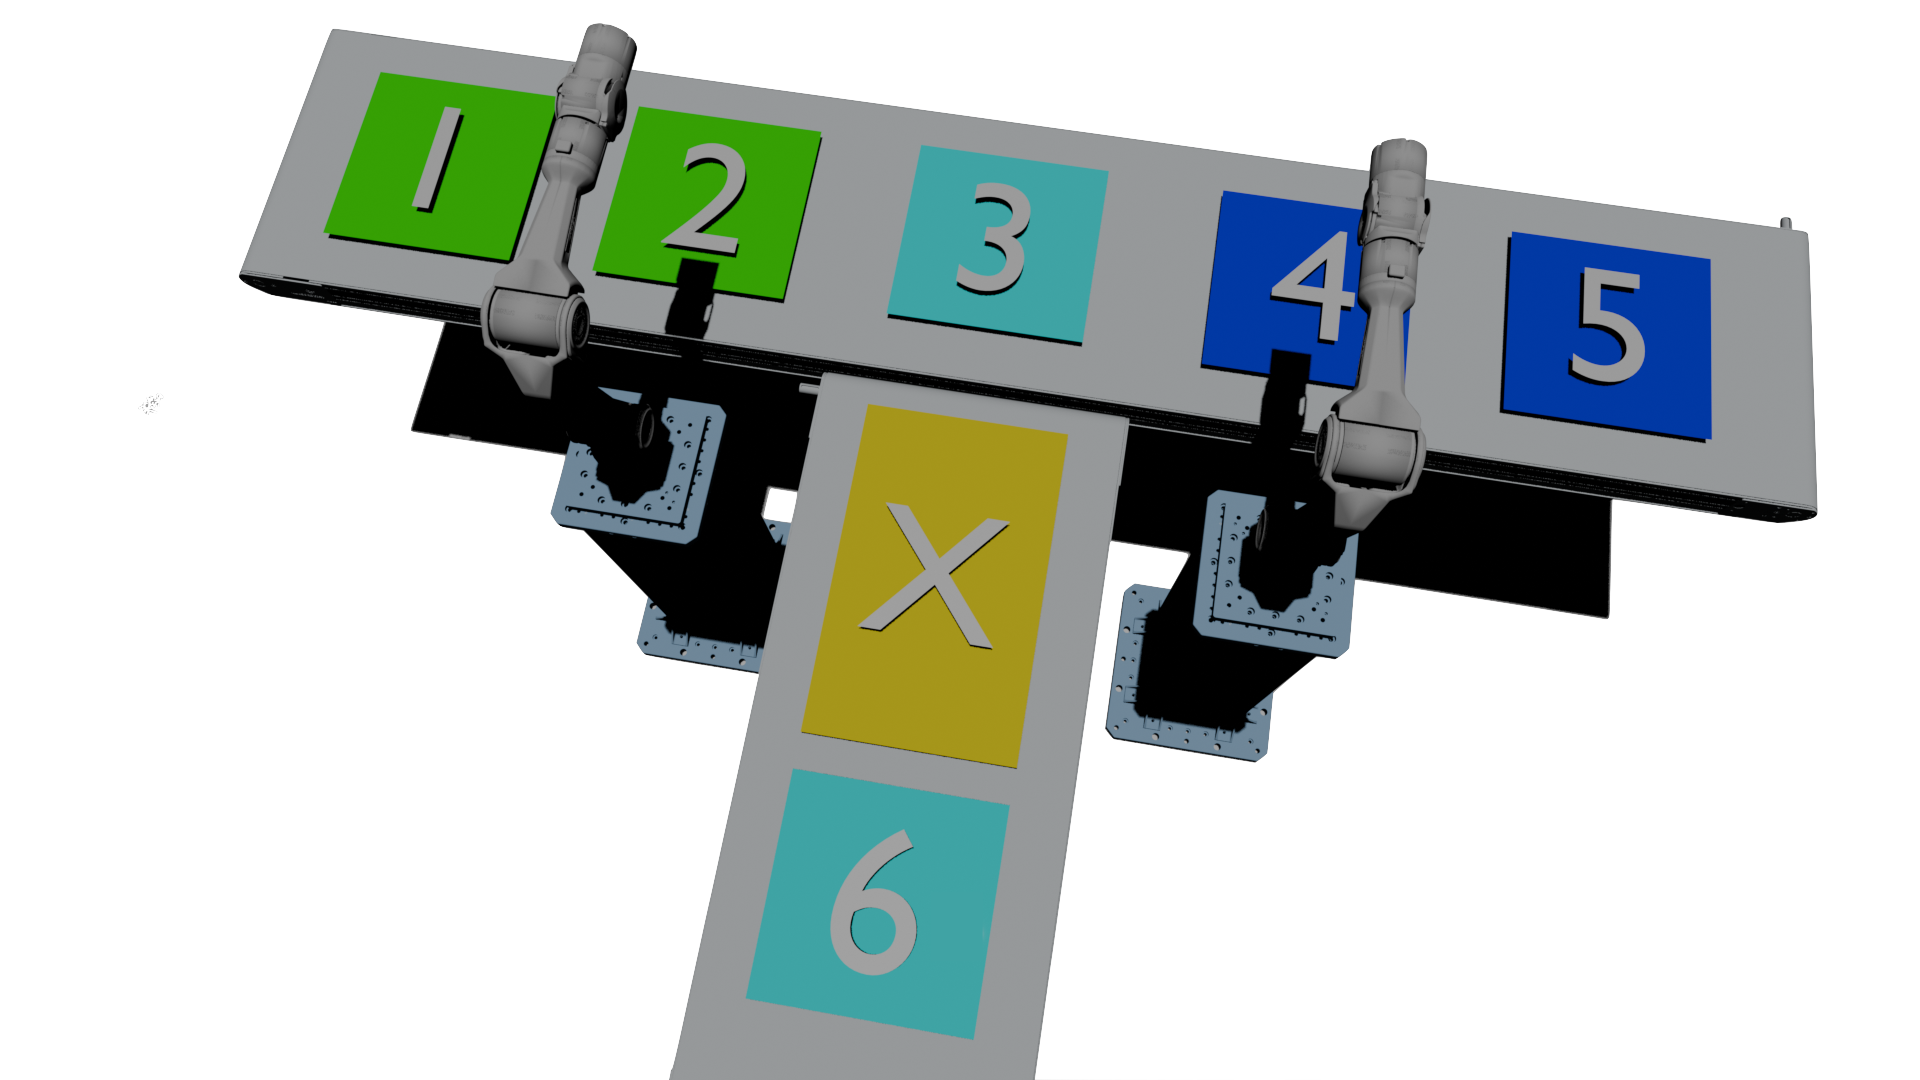
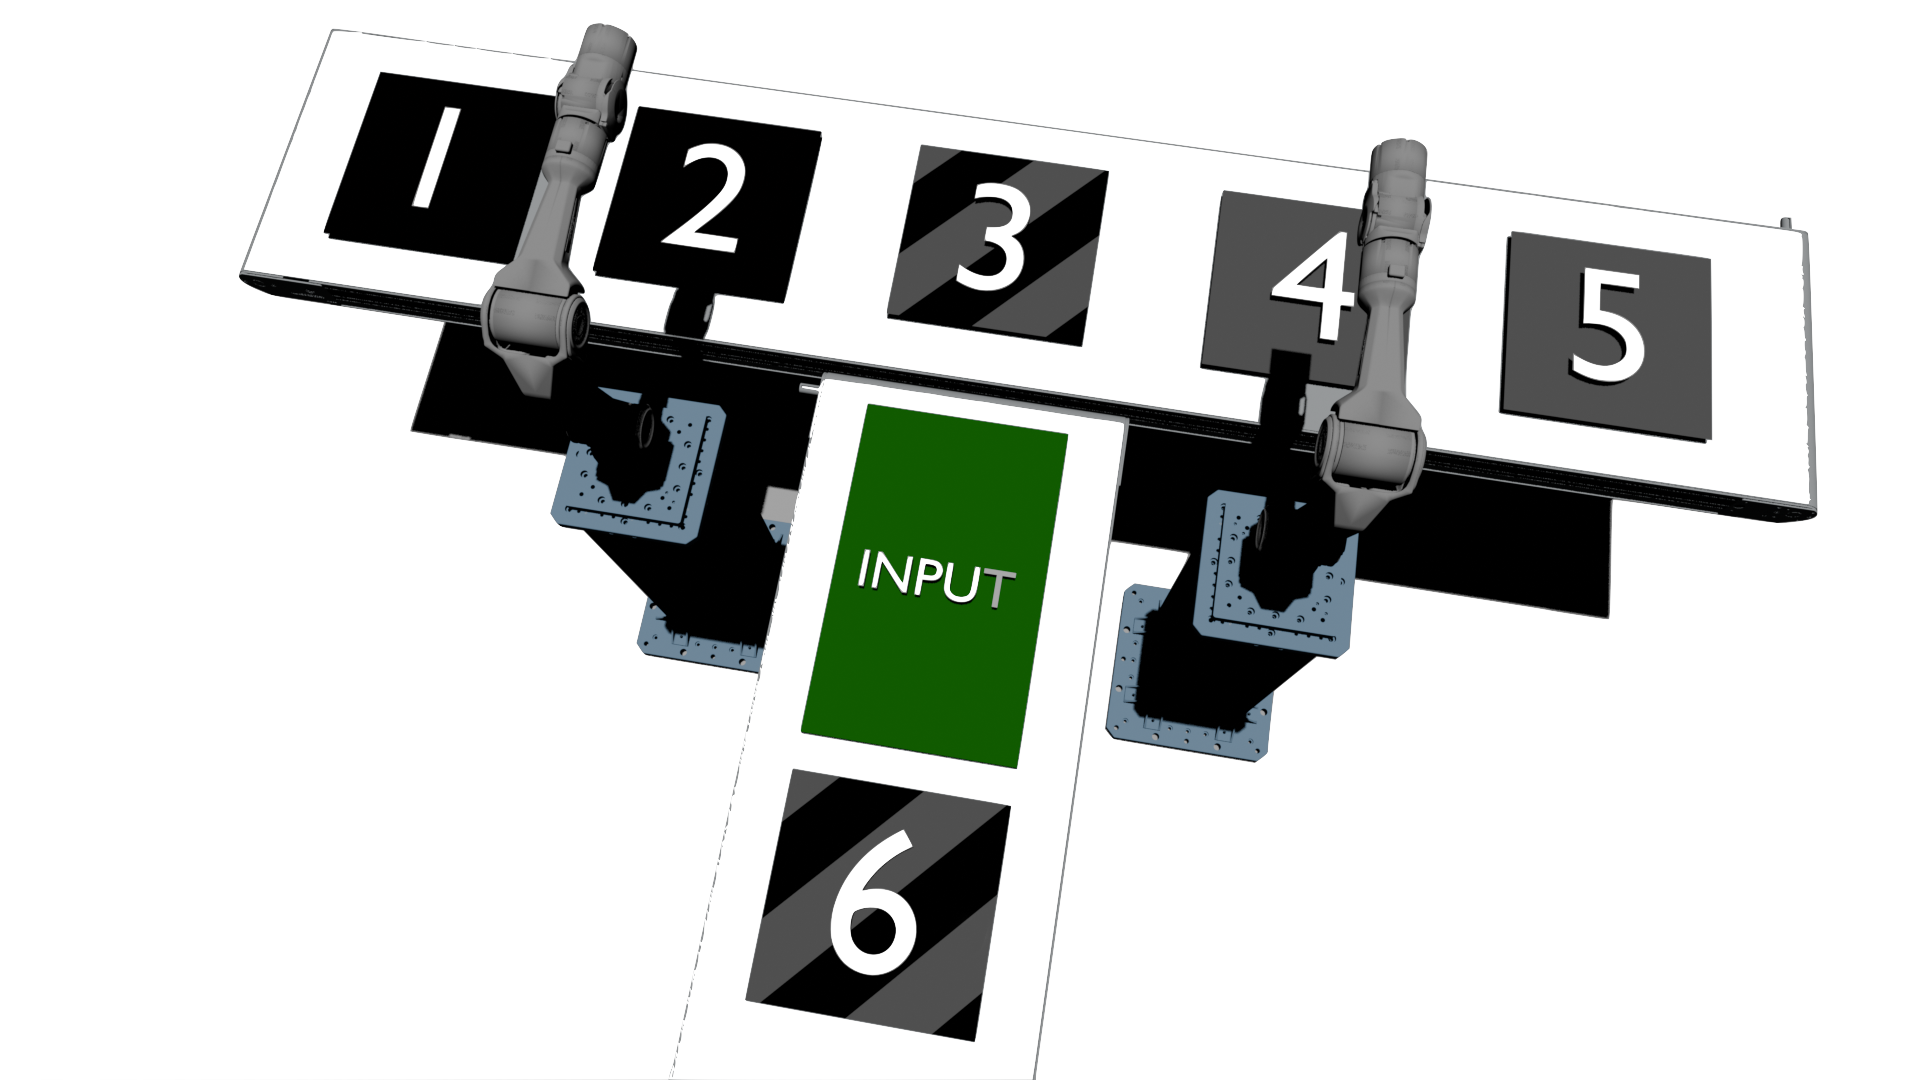
updated colors

Changed region(s): [[0.125, 0.0306, 0.9688, 1.0]]

diff --git a/research/index.html b/research/index.html
@@ -343,7 +343,8 @@
         }
 
         .inbound {
-            background-color: #ffff99;
+            background-color: #4CAF50;
+            color: white;
         }
 
         .categories-title {
@@ -378,12 +379,24 @@
             text-align: center;
         }
 
-        .category-number.teal {
-            background-color: rgb(0, 255, 255);
+        .category-number.black {
+            background-color: #000;
+            color: #fff;
         }
         
-        .category-number.blue {
-            background-color: rgb(0, 0, 255);
+        .category-number.dark-grey {
+            background-color: #555;
+            color: #fff;
+        }
+
+        .category-number.striped {
+            background: repeating-linear-gradient(
+                -45deg,
+                #000,
+                #000 3px,
+                #888 3px,
+                #888 6px
+            );
             color: #fff;
         }
 
@@ -470,40 +483,40 @@
                 
                 <div class="flow-section">
                     <div class="flow-item">
-                        <div class="flow-symbol inbound">X</div>
-                        <span>Inbound Unsorted Linens</span>
+                        <div class="flow-symbol inbound"></div>
+                        <span>Unsorted Linens Input</span>
                     </div>
                 </div>
                 
                 <div class="categories-title">Destination of Sorted Linens</div>
                 
                 <div class="category-item">
-                    <div class="category-number">1</div>
+                    <div class="category-number black">1</div>
                     <div class="category-text">White with Teal Stripe Terry Cloth</div>
                 </div>
                 
                 <div class="category-item">
-                    <div class="category-number">2</div>
+                    <div class="category-number black">2</div>
                     <div class="category-text">Red Terry Cloth</div>
                 </div>
                 
                 <div class="category-item">
-                    <div class="category-number teal">3</div>
+                    <div class="category-number striped">3</div>
                     <div class="category-text">Blue Polyester Napkin</div>
                 </div>
                 
                 <div class="category-item">
-                    <div class="category-number blue">4</div>
+                    <div class="category-number dark-grey">4</div>
                     <div class="category-text">Black Polyester Napkin</div>
                 </div>
                 
                 <div class="category-item">
-                    <div class="category-number blue">5</div>
+                    <div class="category-number dark-grey">5</div>
                     <div class="category-text">Yellow with Blue Stripe Terry Cloth</div>
                 </div>
                 
                 <div class="category-item">
-                    <div class="category-number teal">6</div>
+                    <div class="category-number striped">6</div>
                     <div class="category-text">White with Orange Stripe Terry Cloth</div>
                 </div>
                 
@@ -512,19 +525,19 @@
                     <div style="margin-bottom: 6px; font-size: 11px;">
                         <strong>Left Robot:</strong> 
                         <span style="display: inline-flex; gap: 3px; margin-left: 3px;">
-                            <span class="category-number" style="display: inline-flex; margin-bottom: 0; width: 16px; height: 16px; font-size: 10px;">1</span>
-                            <span class="category-number" style="display: inline-flex; margin-bottom: 0; width: 16px; height: 16px; font-size: 10px;">2</span>
-                            <span class="category-number teal" style="display: inline-flex; margin-bottom: 0; width: 16px; height: 16px; font-size: 10px;">3</span>
-                            <span class="category-number teal" style="display: inline-flex; margin-bottom: 0; width: 16px; height: 16px; font-size: 10px;">6</span>
+                            <span class="category-number black" style="display: inline-flex; margin-bottom: 0; width: 16px; height: 16px; font-size: 10px;">1</span>
+                            <span class="category-number black" style="display: inline-flex; margin-bottom: 0; width: 16px; height: 16px; font-size: 10px;">2</span>
+                            <span class="category-number striped" style="display: inline-flex; margin-bottom: 0; width: 16px; height: 16px; font-size: 10px;">3</span>
+                            <span class="category-number striped" style="display: inline-flex; margin-bottom: 0; width: 16px; height: 16px; font-size: 10px;">6</span>
                         </span>
                     </div>
                     <div style="font-size: 11px;">
                         <strong>Right Robot:</strong> 
                         <span style="display: inline-flex; gap: 3px; margin-left: 3px;">
-                            <span class="category-number teal" style="display: inline-flex; margin-bottom: 0; width: 16px; height: 16px; font-size: 10px;">3</span>
-                            <span class="category-number blue" style="display: inline-flex; margin-bottom: 0; width: 16px; height: 16px; font-size: 10px;">4</span>
-                            <span class="category-number blue" style="display: inline-flex; margin-bottom: 0; width: 16px; height: 16px; font-size: 10px;">5</span>
-                            <span class="category-number teal" style="display: inline-flex; margin-bottom: 0; width: 16px; height: 16px; font-size: 10px;">6</span>
+                            <span class="category-number dark-grey" style="display: inline-flex; margin-bottom: 0; width: 16px; height: 16px; font-size: 10px;">4</span>
+                            <span class="category-number dark-grey" style="display: inline-flex; margin-bottom: 0; width: 16px; height: 16px; font-size: 10px;">5</span>
+                            <span class="category-number striped" style="display: inline-flex; margin-bottom: 0; width: 16px; height: 16px; font-size: 10px;">3</span>
+                            <span class="category-number striped" style="display: inline-flex; margin-bottom: 0; width: 16px; height: 16px; font-size: 10px;">6</span>
                         </span>
                     </div>
                 </div>
